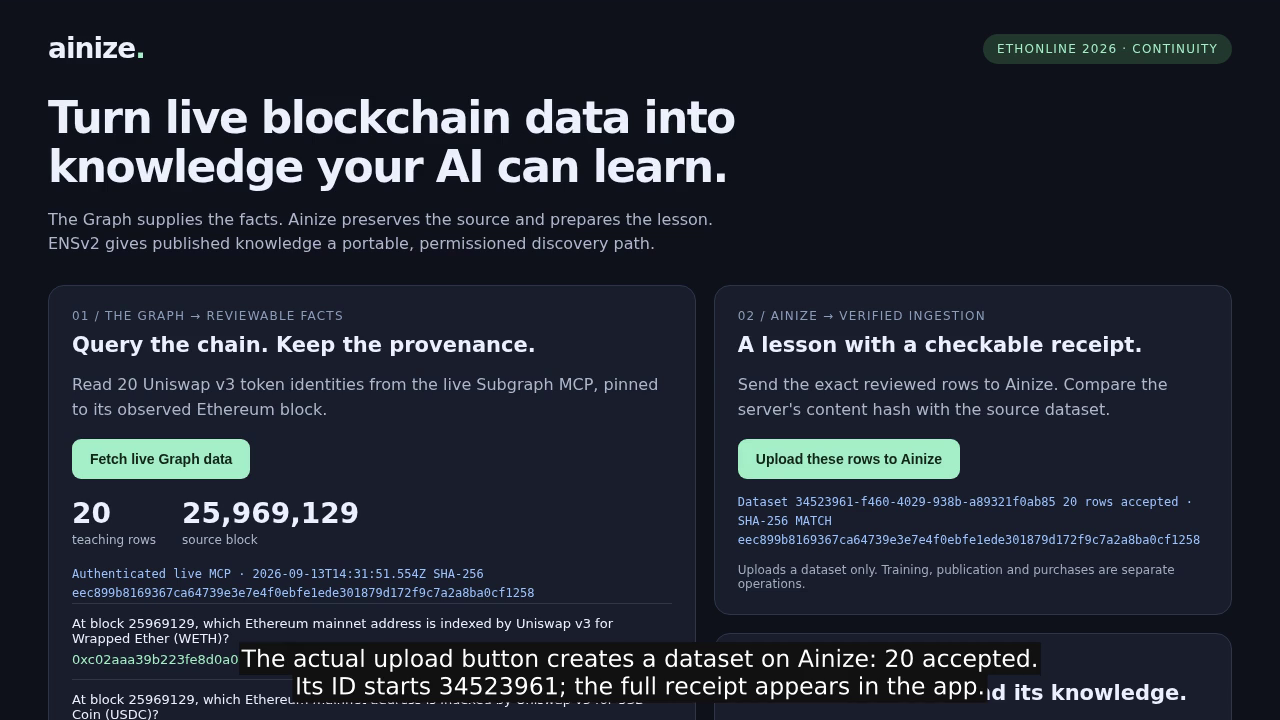
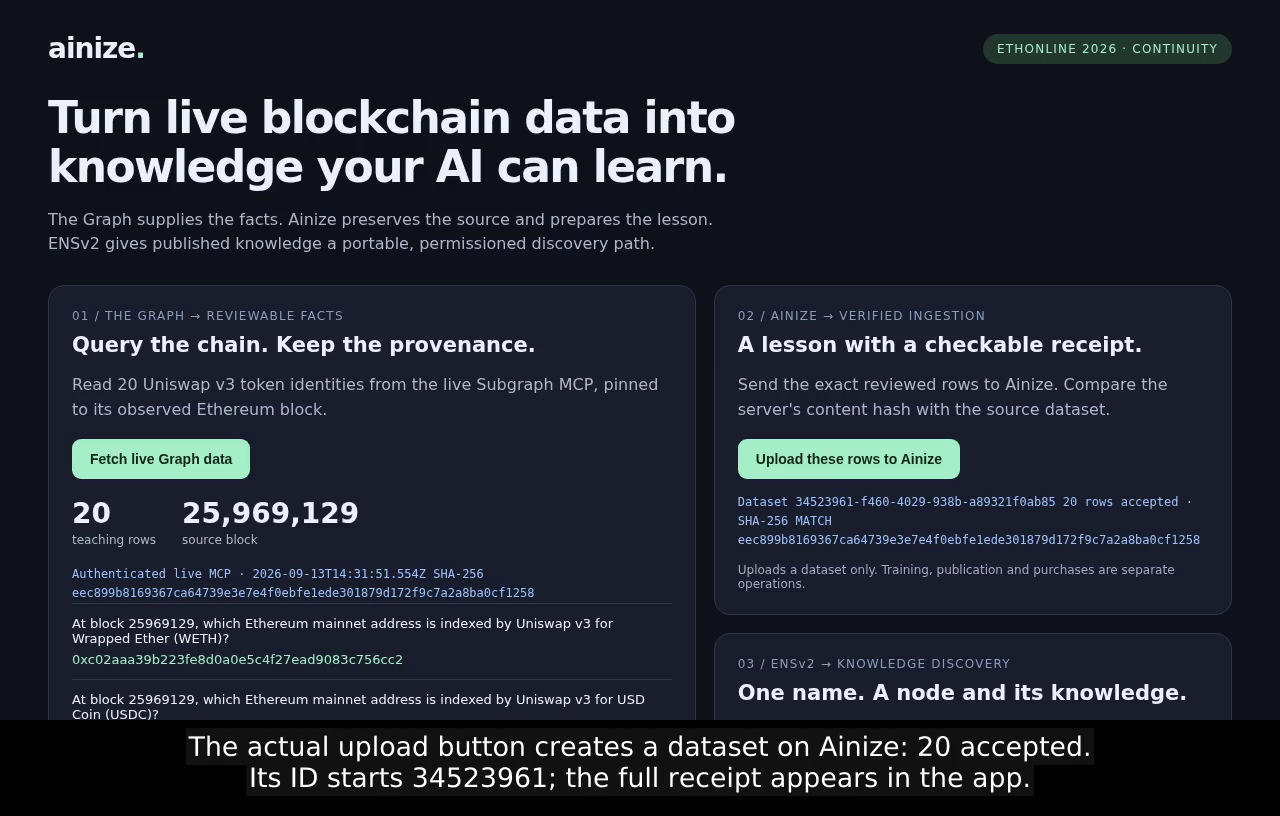
Freeze canonical ENS demo with separate caption band and factual AI disclosure

Changed region(s): [[0.0, 0.1222, 1.0, 1.0], [0.75, 0.0306, 0.9688, 0.0917], [0.0312, 0.0306, 0.125, 0.0917]]

diff --git a/ETHONLINE2026.md b/ETHONLINE2026.md
@@ -21,7 +21,7 @@ Subgraph MCP and produced 20 rows at Ethereum block 25969129 during the actual b
 accepted all 20, with the stored hash matching the predicted hash. It stopped before training.
 The ENS work resolves human-readable names into a node endpoint and knowledge identifier through
 ENSv2. Registry, resolver and registrar contracts have been deployed on Sepolia, with real records and
-permission checks. Canonical Universal Resolver/CLI proof is being finalized by the deployment owner.
+permission checks. Canonical Universal Resolver and CLI resolution are now verified in the owner's evidence.
 This operator namespace registration is not a training-earned mint or a claim of new model training.
 
 **How it is made:** The existing foundation includes the model-serving/training infrastructure,
@@ -50,8 +50,8 @@ must remain tied to its block; generated training rows do not imply that trainin
 | Existing AI application | [Actual base response](evidence/base-demo.json), [capture evidence](evidence/video/README.md) | Real Qwen3.8-Flash-Next answer, no patches applied; one observation, no improvement claim |
 | Catalogue quality gate | [Public catalogue](evidence/catalog.json) | Two DART anchors, both REJECTED; no sellable items shown in captured explorer |
 | Continuity / prior work | [Boundary and commit references](evidence/CONTINUITY.md), [history snapshot](evidence/source-history.json) | Foundation predates event work; original commit history is retained |
-| ENS integration | [Local registrar source](integrations/ens/contracts/EngramRegistrar.sol), [CLI source](integrations/cli/src/ens.ts), [integration index](integrations/README.md) | Deployed Sepolia contracts/records; 8 local contract tests and permission-helper tests. Canonical CLI proof is tracked in the deployment evidence |
-| ENS transactions | [Local transaction table and public receipt](evidence/ens/README.md) | Deployment owner maintains confirmed step/block/explorer links; partial transaction success is not complete deployment proof |
+| ENS integration | [Local registrar source](integrations/ens/contracts/EngramRegistrar.sol), [CLI source](integrations/cli/src/ens.ts), [integration index](integrations/README.md) | Deployed Sepolia contracts/records; canonical Universal Resolver and CLI proof; 8 local contract tests plus 9 permission-helper tests |
+| ENS transactions | [Local transaction table and public receipt](evidence/ens/README.md) | 17 confirmed transactions including canonical-root linkage, plus live record/permission proof |
 | Required demo video | [Caption-only MP4 release](https://github.com/ainblockchain/ainize/releases/tag/ethonline2026-review), [script and shot list](video/NARRATION.md) | **Missing human narration. Caption-only video is not a compliant replacement.** |
 
 The **interactive video recording** clicked the real application's fetch and upload buttons, producing
@@ -157,8 +157,9 @@ separately from collection metadata. Uploading, training, payment and publishing
   [registrar and permission helpers](evidence/tests/ens.txt); [video checks](evidence/video/validation-tests.txt).
 - [x] ENS Sepolia chain ID 11155111, deployed contracts/records and confirmed transaction receipts.
 - [x] Live EAC static-call permission success/refusal recorded; no write persistence inferred.
-- [ ] Canonical Universal Resolver and CLI proof captured and linked by the deployment owner.
-- [ ] Confirm exact event opening cutoff and human authorship/contribution details with the team.
+- [x] Canonical Universal Resolver and CLI proof verified: `patch.ainize-4782c76e.eth` resolves on
+  Sepolia to `https://www.ainize.ai` and existing patch `taught-ainize-lifecycle100-2026-cf9a6f`.
+- [ ] Confirm the exact event opening cutoff used to classify historical work.
 - [ ] Include any missing original AI specifications, prompts and planning artifacts.
 - [ ] Caption-only video uploaded and watched end to end; technical checks alone do not verify claims.
 - [ ] **Human narration: unavailable per team instruction. Caption-only video leaves this rule unmet.**

diff --git a/video/README.md b/video/README.md
@@ -1,7 +1,8 @@
 # Video artifacts and reproduction
 
 **Caption-only review video: human narration is unavailable. This is not a compliant final demo.**
-Target export: 150 seconds, 1280×720, H.264, no audio, no music, no synthetic voice.
+Final export: 150 seconds, 1280×816, H.264, no audio, no music, no synthetic voice.
+The original 1280×720 footage is preserved above a 96-pixel caption band, keeping results unobscured.
 The actual MP4 is published on the [main repository release](https://github.com/ainblockchain/ainize/releases/tag/ethonline2026-review).
 Publication and final technical metadata are recorded in [capture evidence](../evidence/video/README.md).
 
@@ -29,7 +30,7 @@ In another terminal, use fresh capture directories (the encoder refuses overwrit
 ```bash
 node video/capture.mjs http://127.0.0.1:4175 video/captures/live-interactive 80 video/live-actions.json
 node video/capture.mjs http://127.0.0.1:8766/compare.html video/captures/compare-readable 30
-node video/capture.mjs http://127.0.0.1:4175 video/captures/ens-live 20 video/ens-actions.json
+node video/capture.mjs http://127.0.0.1:4175 video/captures/ens-canonical-final 20 video/ens-actions.json
 node video/capture.mjs http://127.0.0.1:8766/reproduce.html video/captures/reproduce-final 20
 bash video/assemble-caption-only.sh
 bash video/validate.sh --caption-only video/final/ainize-ethonline2026-caption-only.mp4
@@ -40,9 +41,9 @@ as described in [the submission](../ETHONLINE2026.md#reproduce-the-demonstrated-
 plan clicks **Fetch live Graph data** at 3s and **Upload these rows to Ainize** at 45s. If the provider is
 still busy then, the capture fails rather than inventing a result; adjust the plan and record again.
 Playback is 80s genuine Graph/upload button flow + 30s recorded existing-patch comparison + 20s live ENS
-permission-button flow + 20s reproduction entry. The ENS action performs fresh `eth_call` probes against
-the deployed resolver. Its name is entered in the real form; this cut does not press Resolve or claim
-canonical name resolution. Set `ENS_CLIP` to replace those 20 seconds and update captions when new proof arrives.
+canonical-resolution/permission-button flow + 20s reproduction entry. The ENS plan enters the registered
+name at 1s, clicks Resolve at 3s, and performs fresh `eth_call` permission probes at 11s. Both operations
+use the real deployed Sepolia integration. Set `ENS_CLIP` to replace those 20 seconds if needed.
 Fresh captures will return fresh timestamps/hashes; update captions and evidence to match the new run.
 Noto Sans KR supplies readable Korean glyphs in the comparison, under the linked SIL Open Font License.
 `setpts=PTS-STARTPTS` in assembly removes each clip's timestamp offset; there is no speed multiplier.

diff --git a/evidence/video/README.md b/evidence/video/README.md
@@ -1,24 +1,24 @@
 # Capture and release evidence
 
 The 150-second product demo combines actual browser actions and explicitly labeled recorded model output.
-The MP4 and original capture clips are intended for the
+The MP4 and original capture clips are prepared for the
 [main repository release](https://github.com/ainblockchain/ainize/releases/tag/ethonline2026-review).
 Final checksums, publication status and export metadata are recorded after encoding completes.
 
-**Export:** 150.000 seconds, 1280×720, H.264, no audio streams, 2,138,471 bytes.
[1 lines of base64/hex data omitted]
+**Export:** 150.000 seconds, 1280×816, H.264, no audio streams. The original 720-pixel app footage
+is preserved above a separate 96-pixel bottom caption band. Exact bytes and SHA-256 are in the metadata.
 [Machine-readable final metadata](final.json) distinguishes technical success from narration compliance.
 
 | Time | Source | Evidence |
 |---|---|---|
 | 0:00–1:20 | Actual local application: fetch and upload buttons | [Provider calls](../interactive/tokens.jsonl.evidence.json), [upload](../interactive/tokens.jsonl.upload.json); block 25969129, 20 accepted |
 | 1:20–1:50 | Recorded real DART model comparison | [Raw response](../quality-demo.json); both expected addresses per team review; one observation; patch still REJECTED |
-| 1:50–2:10 | Actual ENS permission-check button | [UI state](ens-ui-state.json); Sepolia block 11696542; `ainize.node` allowed, `ainize.patch` refused; no transactions sent |
+| 1:50–2:10 | Actual canonical ENS Resolve and permission-check buttons | [UI state](ens-ui-state.json); on-chain node/patch resolution; EAC block 11696598; `ainize.node` allowed, `ainize.patch` refused; no transactions sent |
 | 2:10–2:30 | Real reproduction script/source index excerpt | [Root reproduction script](../../REPRODUCE.sh); final audio-status caption |
 
 [Capture manifests](captures.json) record real wall-clock durations, URLs, button/field actions and
 source SHA-256 values. The release archive preserves the four original MP4 clips, start/final frames,
-timing lists and manifests. Assembly uses 80/30/20/20 seconds at normal speed with small bottom captions.
+timing lists and manifests. Assembly uses 80/30/20/20 seconds at normal speed with captions below the footage.
 The Graph and ENS sessions are separate; the server was restarted between them to add the EAC route.
 
 The comparison is a labeled viewer of actual saved API output, not a new inference call during capture.

diff --git a/submission/SPEC.md b/submission/SPEC.md
@@ -20,9 +20,10 @@ No TTS, cloned voice, synthetic narration or music was created. No model perform
 
 Coding assistants were used; exact service model identifiers are not independently recorded, and no
 specific model version is asserted. Historical pre-event AI usage and more granular per-file attribution
-remain to be supplied by their owners. Meaningful human contribution has not been independently audited;
-the team must name actual human product, architecture, implementation and review contributions before
-upload. Do not assign assistant-performed contracts/imports to a human or infer eligibility from this record.
+are not fully recorded here. Human implementation authorship has not been independently audited, so no
+human code attribution is asserted. This disclosure lists AI work by component without requesting team
+names or contribution statements. Do not assign assistant-performed contracts/imports to a human or
+infer eligibility from this record.
 
 ## Delegated work brief retained from the coordinating assistant
 
@@ -36,7 +37,7 @@ judge-facing source/evidence in `ainblockchain/ainize`.
 Follow-up requirements retained: produce a real 128–180 second, at least 720p caption-only MP4 with
 actual running-demo footage; no synthetic voice; flag missing narration; real terminal output may be
 rendered as recorded evidence. Publish via a GitHub release if possible. Keep all judge-facing materials
-in `ainblockchain/ainize`; the user imports focused source and tests into `integrations/ens`,
+in `ainblockchain/ainize`; the coordinating assistant imports focused source and tests into `integrations/ens`,
 `integrations/mcp`, and `integrations/cli`. Imports were performed by the coordinating assistant;
 the submission agent did not modify those directories.
 
